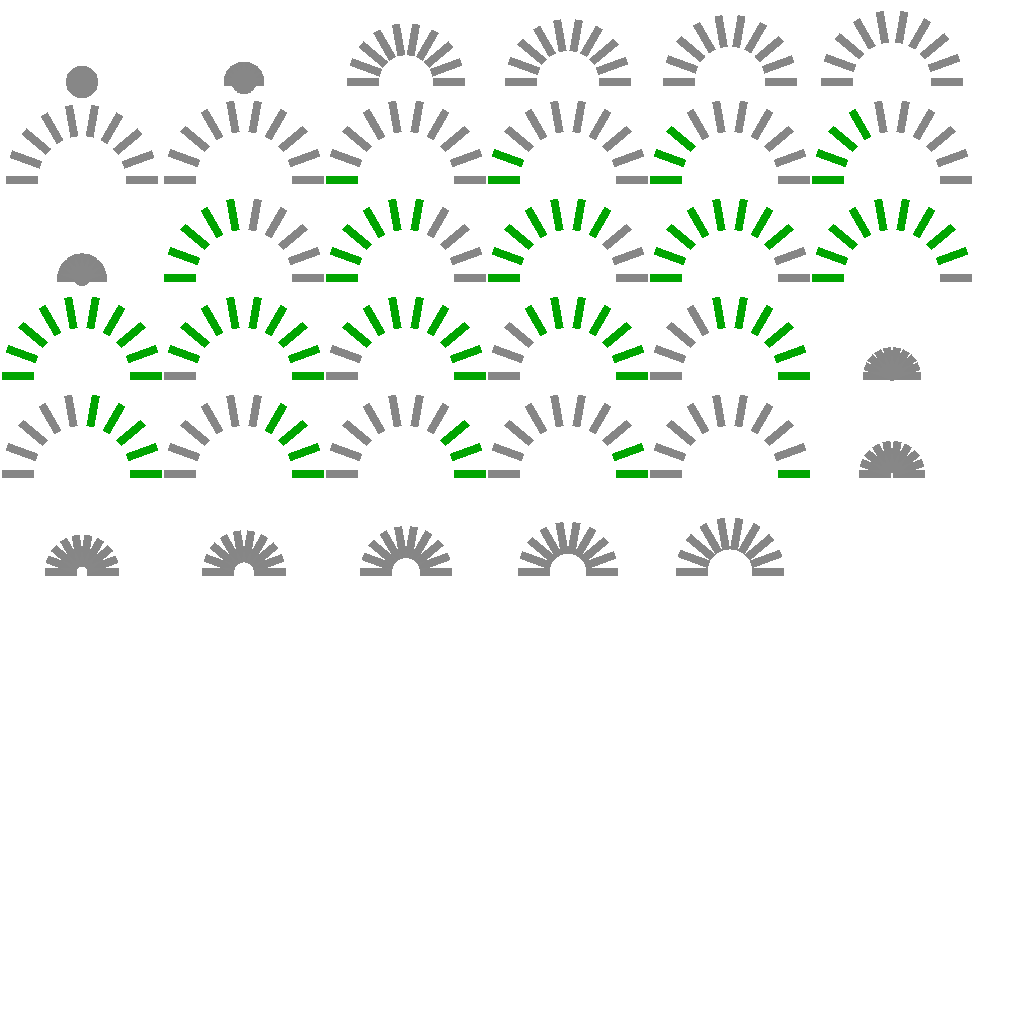
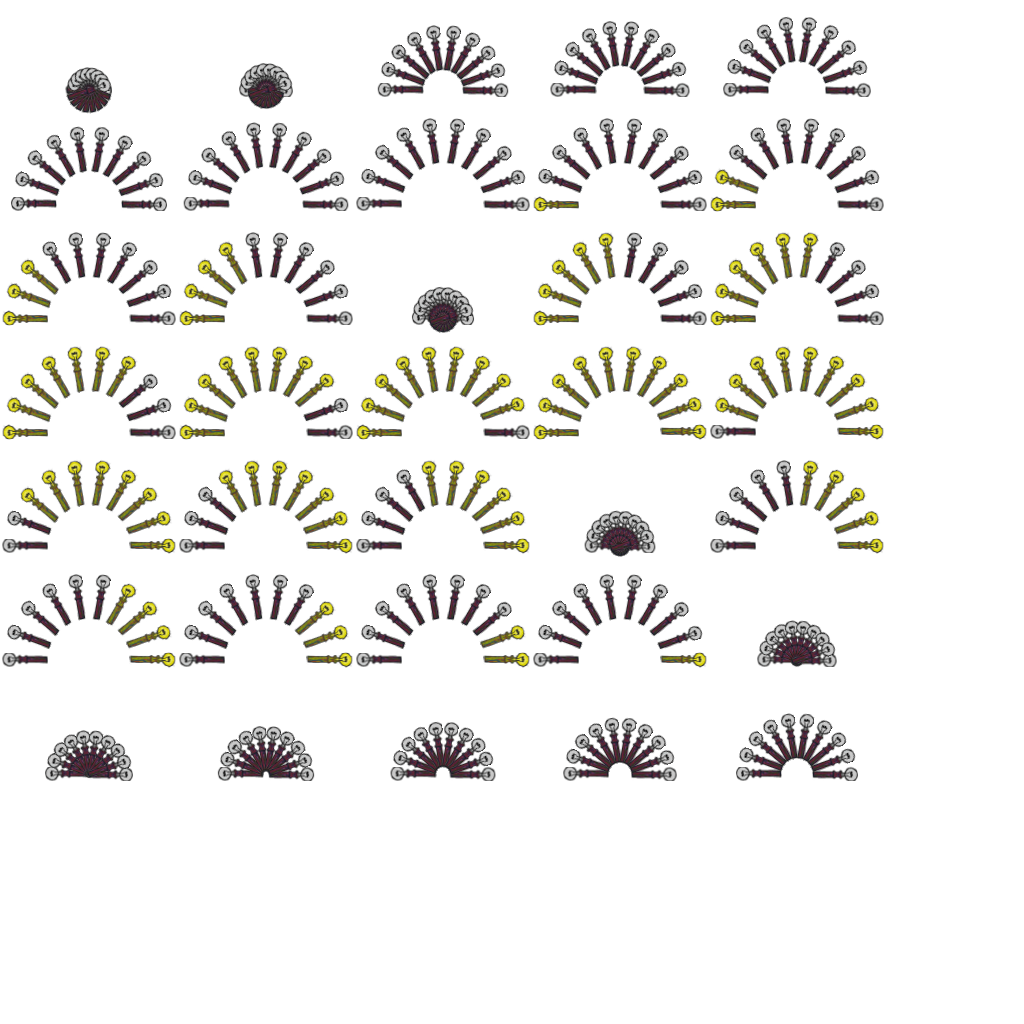
added new art for screwing interface

diff --git a/werescrewed/src/com/blindtigergames/werescrewed/entity/screws/Screw.java b/werescrewed/src/com/blindtigergames/werescrewed/entity/screws/Screw.java
@@ -45,7 +45,7 @@ public class Screw extends Entity {
 	protected int diff;
 	protected Entity entity;
 	protected Vector2 detachDirection;
-	protected Vector2 interfaceOffset = new Vector2( 82f, 4f );
+	protected Vector2 interfaceOffset = new Vector2( 88f, 14f );
 	protected boolean upDownDetach;
 	protected float entityAngle;
 	protected boolean playerAttached = false;
